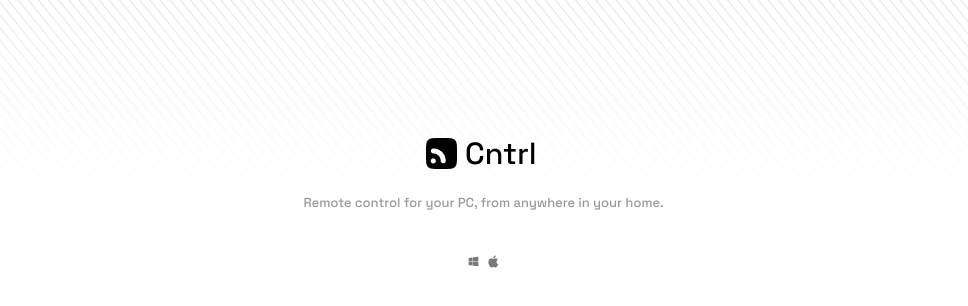
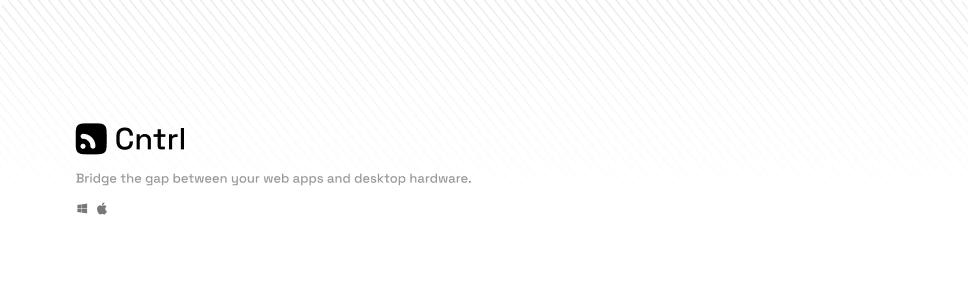
chore: readme + image update

diff --git a/README.md b/README.md
@@ -1,15 +1,16 @@
-# Cntrl
+![Cover](https://github.com/azaek/cntrl/blob/main/github.png)
 
-A monorepo for remote PC control and monitoring tools.
+![License](https://img.shields.io/github/license/azaek/cntrl)
+![Latest Release](https://img.shields.io/github/v/release/azaek/cntrl?include_prereleases)
+![Ai-assisted](https://img.shields.io/badge/AI--assisted-262626)
+
+The missing API for your desktop. Control power, media, and monitor stats remotely.
 
 ## Apps
 
 | App                         | Description                                                                  |
 | --------------------------- | ---------------------------------------------------------------------------- |
 | **[bridge](./apps/bridge)** | Tauri desktop app for Windows/macOS - runs a local server for remote control |
-| **[hub](./apps/hub)**       | Dashboard web app for managing remote instances                              |
-| **[docs](./apps/docs)**     | Documentation site                                                           |
-| **[web](./apps/web)**       | Main website                                                                 |
 
 ## Packages
 
@@ -96,7 +97,6 @@ GitHub Actions will automatically build and publish to the appropriate channel.
 - [SolidJS](https://solidjs.com/) - Bridge app frontend
 - [TanStack](https://tanstack.com/) - Router, Query, Form
 - [Tailwind CSS](https://tailwindcss.com/) - Styling
-- [Drizzle ORM](https://orm.drizzle.team/) - Database
 
 ## License
 
